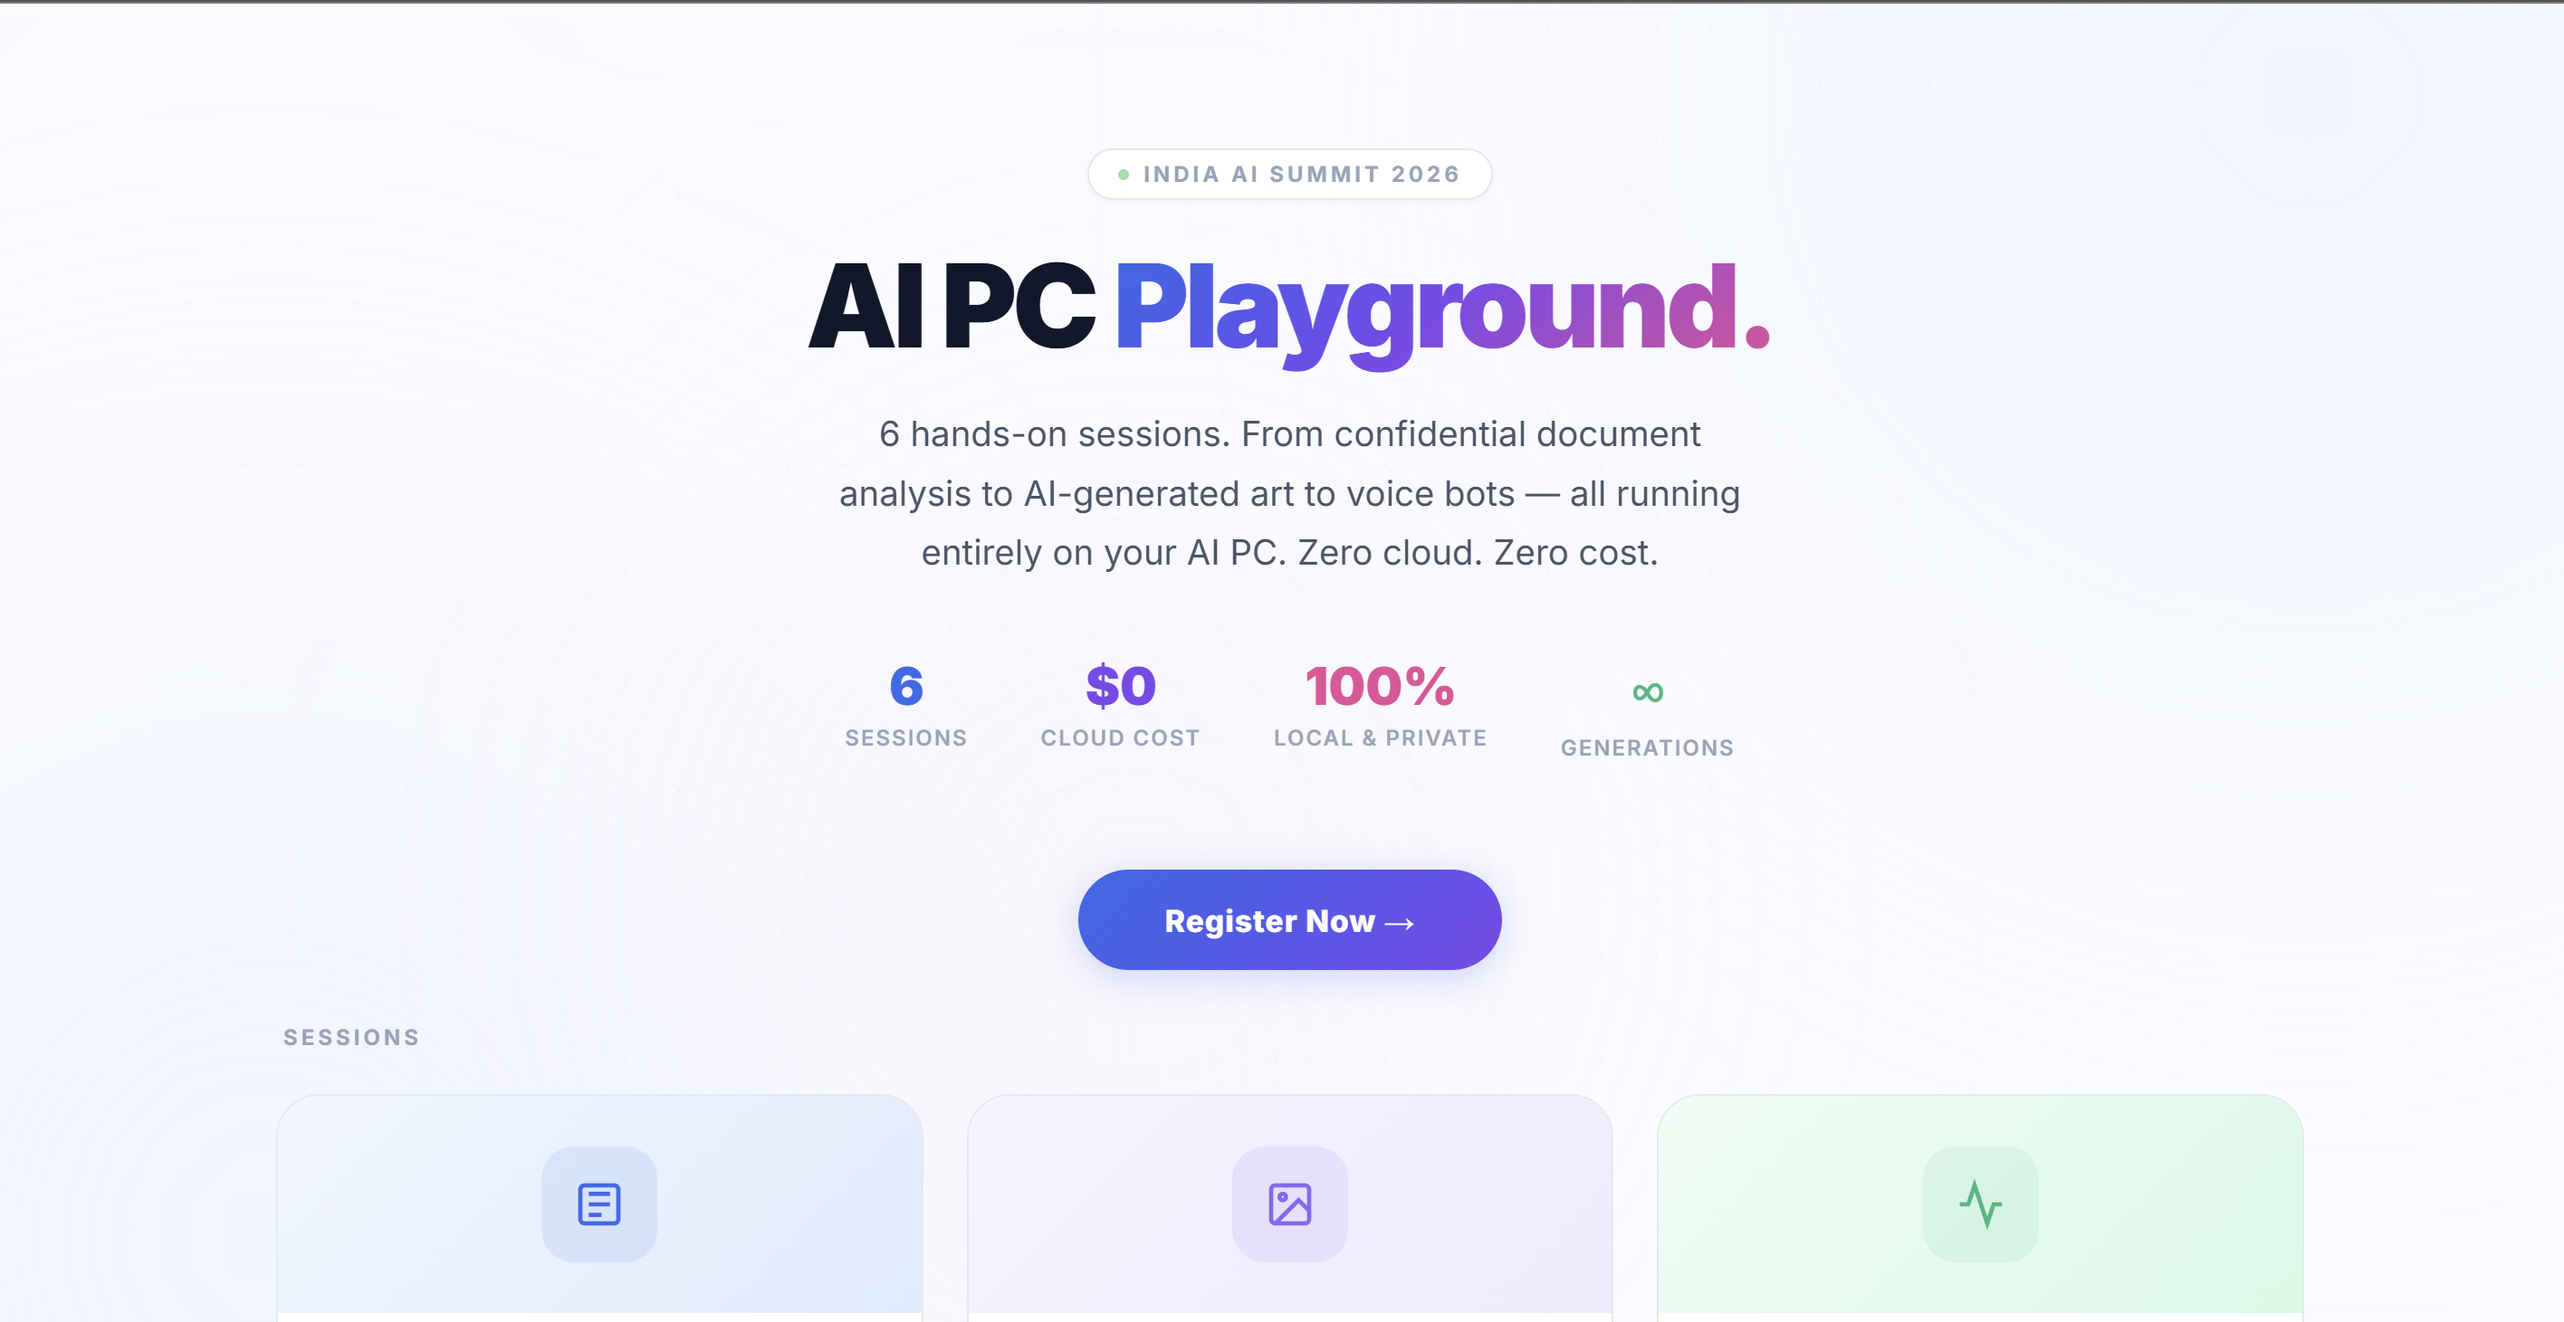
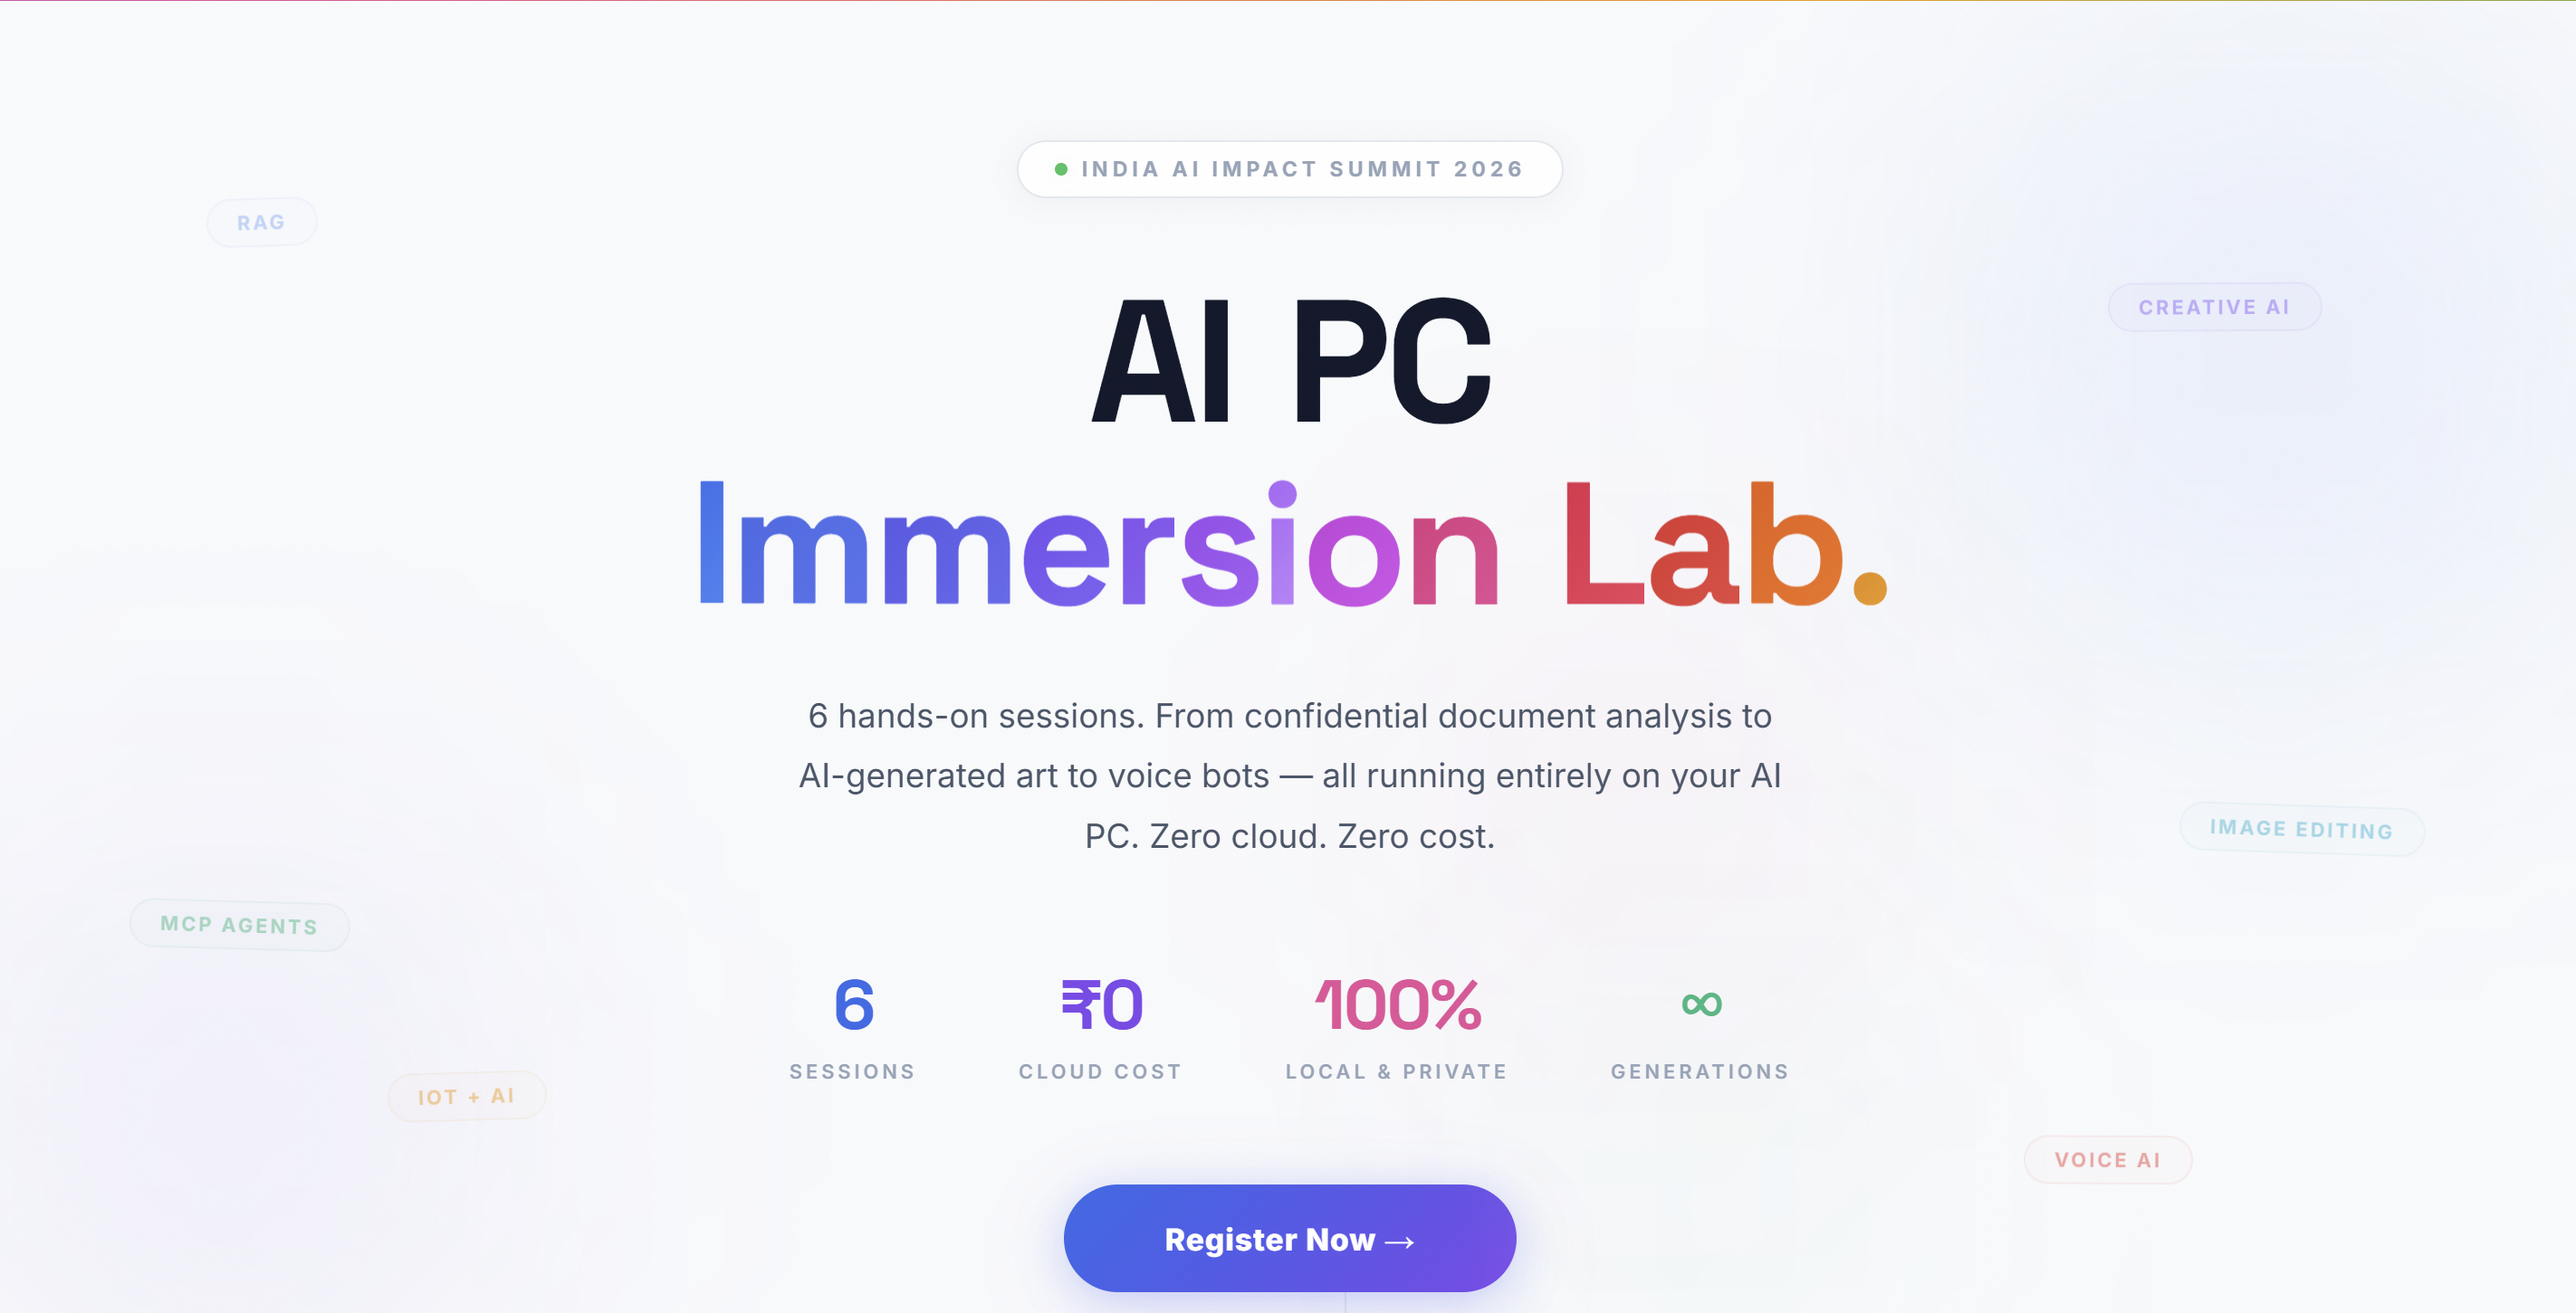
updated the preview images

diff --git a/register.html b/register.html
@@ -5,6 +5,18 @@
     <meta charset="UTF-8">
     <meta name="viewport" content="width=device-width, initial-scale=1.0">
     <title>Register | AI PC Immersion Lab — India AI Impact Summit 2026</title>
+    <!-- Open Graph / Facebook -->
+    <meta property="og:type" content="website">
+    <meta property="og:title" content="Register | AI PC Immersion Lab — India AI Impact Summit 2026">
+    <meta property="og:description"
+        content="Register for the 6-session hands-on AI PC Immersion Lab at the India AI Impact Summit 2026.">
+    <meta property="og:image" content="assets/preview.png">
+    <!-- Twitter -->
+    <meta property="twitter:card" content="summary_large_image">
+    <meta property="twitter:title" content="Register | AI PC Immersion Lab — India AI Impact Summit 2026">
+    <meta property="twitter:description"
+        content="Register for the 6-session hands-on AI PC Immersion Lab at the India AI Impact Summit 2026.">
+    <meta property="twitter:image" content="assets/preview.png">
     <meta name="description"
         content="Register for the 6-session hands-on AI PC Immersion Lab at the India AI Impact Summit 2026.">
     <link href="https://fonts.googleapis.com/css2?family=Inter:wght@300;400;500;600;700;800;900&display=swap"

diff --git a/setup_guide.html b/setup_guide.html
@@ -7,6 +7,16 @@
     <link href="https://fonts.googleapis.com/css2?family=Inter:wght@400;500;600;700&display=swap" rel="stylesheet">
     <link href="https://fonts.googleapis.com/css2?family=JetBrains+Mono:wght@400;500&display=swap" rel="stylesheet">
     <title>Ultimate Workshop Setup Guide</title>
+    <!-- Open Graph / Facebook -->
+    <meta property="og:type" content="website">
+    <meta property="og:title" content="Ultimate Workshop Setup Guide">
+    <meta property="og:description" content="Complete setup guide for the AI PC Immersion Lab workshop.">
+    <meta property="og:image" content="assets/preview.png">
+    <!-- Twitter -->
+    <meta property="twitter:card" content="summary_large_image">
+    <meta property="twitter:title" content="Ultimate Workshop Setup Guide">
+    <meta property="twitter:description" content="Complete setup guide for the AI PC Immersion Lab workshop.">
+    <meta property="twitter:image" content="assets/preview.png">
     <style>
         @page {
             size: A4;

diff --git a/Session_5_Presentation.html b/Session_5_Presentation.html
@@ -5,6 +5,16 @@
     <meta charset="UTF-8">
     <meta name="viewport" content="width=device-width, initial-scale=1.0">
     <title>Session 5 | AI News Anchor — Voice Agent</title>
+    <!-- Open Graph / Facebook -->
+    <meta property="og:type" content="website">
+    <meta property="og:title" content="Session 5 | AI News Anchor — Voice Agent">
+    <meta property="og:description" content="AI PC Immersion Lab Session 5">
+    <meta property="og:image" content="assets/preview.png">
+    <!-- Twitter -->
+    <meta property="twitter:card" content="summary_large_image">
+    <meta property="twitter:title" content="Session 5 | AI News Anchor — Voice Agent">
+    <meta property="twitter:description" content="AI PC Immersion Lab Session 5">
+    <meta property="twitter:image" content="assets/preview.png">
     <link href="https://fonts.googleapis.com/css2?family=Inter:wght@300;400;500;600;700;800;900&display=swap"
         rel="stylesheet">
     <style>

diff --git a/Session_4_Presentation.html b/Session_4_Presentation.html
@@ -5,6 +5,16 @@
     <meta charset="UTF-8">
     <meta name="viewport" content="width=device-width, initial-scale=1.0">
     <title>Session 4 | Photoshop-Free AI Editing</title>
+    <!-- Open Graph / Facebook -->
+    <meta property="og:type" content="website">
+    <meta property="og:title" content="Session 4 | Photoshop-Free AI Editing">
+    <meta property="og:description" content="AI PC Immersion Lab Session 4">
+    <meta property="og:image" content="assets/preview.png">
+    <!-- Twitter -->
+    <meta property="twitter:card" content="summary_large_image">
+    <meta property="twitter:title" content="Session 4 | Photoshop-Free AI Editing">
+    <meta property="twitter:description" content="AI PC Immersion Lab Session 4">
+    <meta property="twitter:image" content="assets/preview.png">
     <link href="https://fonts.googleapis.com/css2?family=Inter:wght@300;400;500;600;700;800;900&display=swap"
         rel="stylesheet">
     <style>

diff --git a/roster.html b/roster.html
@@ -6,6 +6,16 @@
     <meta name="viewport" content="width=device-width, initial-scale=1.0">
     <link href="https://fonts.googleapis.com/css2?family=Inter:wght@400;500;600;700&display=swap" rel="stylesheet">
     <title>Workshop Day Outline</title>
+    <!-- Open Graph / Facebook -->
+    <meta property="og:type" content="website">
+    <meta property="og:title" content="Workshop Day Outline">
+    <meta property="og:description" content="Schedule and outline for the AI PC Immersion Lab workshop.">
+    <meta property="og:image" content="assets/preview.png">
+    <!-- Twitter -->
+    <meta property="twitter:card" content="summary_large_image">
+    <meta property="twitter:title" content="Workshop Day Outline">
+    <meta property="twitter:description" content="Schedule and outline for the AI PC Immersion Lab workshop.">
+    <meta property="twitter:image" content="assets/preview.png">
     <style>
         @page {
             size: A4;

diff --git a/Session_6_Presentation.html b/Session_6_Presentation.html
@@ -5,6 +5,16 @@
     <meta charset="UTF-8">
     <meta name="viewport" content="width=device-width, initial-scale=1.0">
     <title>Session 6 | AI + IoT — AirOwl</title>
+    <!-- Open Graph / Facebook -->
+    <meta property="og:type" content="website">
+    <meta property="og:title" content="Session 6 | AI + IoT — AirOwl">
+    <meta property="og:description" content="AI PC Immersion Lab Session 6">
+    <meta property="og:image" content="assets/preview.png">
+    <!-- Twitter -->
+    <meta property="twitter:card" content="summary_large_image">
+    <meta property="twitter:title" content="Session 6 | AI + IoT — AirOwl">
+    <meta property="twitter:description" content="AI PC Immersion Lab Session 6">
+    <meta property="twitter:image" content="assets/preview.png">
     <link href="https://fonts.googleapis.com/css2?family=Inter:wght@300;400;500;600;700;800;900&display=swap"
         rel="stylesheet">
     <style>

diff --git a/Session_1_Presentation.html b/Session_1_Presentation.html
@@ -5,6 +5,16 @@
     <meta charset="UTF-8">
     <meta name="viewport" content="width=device-width, initial-scale=1.0">
     <title>Session 1 | Local Intelligence</title>
+    <!-- Open Graph / Facebook -->
+    <meta property="og:type" content="website">
+    <meta property="og:title" content="Session 1 | Local Intelligence">
+    <meta property="og:description" content="AI PC Immersion Lab Session 1">
+    <meta property="og:image" content="assets/preview.png">
+    <!-- Twitter -->
+    <meta property="twitter:card" content="summary_large_image">
+    <meta property="twitter:title" content="Session 1 | Local Intelligence">
+    <meta property="twitter:description" content="AI PC Immersion Lab Session 1">
+    <meta property="twitter:image" content="assets/preview.png">
     <link href="https://fonts.googleapis.com/css2?family=Inter:wght@300;400;500;600;700;800;900&display=swap"
         rel="stylesheet">
     <style>

diff --git a/Session_2_Presentation.html b/Session_2_Presentation.html
@@ -5,6 +5,16 @@
     <meta charset="UTF-8">
     <meta name="viewport" content="width=device-width, initial-scale=1.0">
     <title>Session 2 | AI Creative Studio</title>
+    <!-- Open Graph / Facebook -->
+    <meta property="og:type" content="website">
+    <meta property="og:title" content="Session 2 | AI Creative Studio">
+    <meta property="og:description" content="AI PC Immersion Lab Session 2">
+    <meta property="og:image" content="assets/preview.png">
+    <!-- Twitter -->
+    <meta property="twitter:card" content="summary_large_image">
+    <meta property="twitter:title" content="Session 2 | AI Creative Studio">
+    <meta property="twitter:description" content="AI PC Immersion Lab Session 2">
+    <meta property="twitter:image" content="assets/preview.png">
     <link href="https://fonts.googleapis.com/css2?family=Inter:wght@300;400;500;600;700;800;900&display=swap"
         rel="stylesheet">
     <style>

diff --git a/Session_3_Presentation.html b/Session_3_Presentation.html
@@ -5,6 +5,16 @@
     <meta charset="UTF-8">
     <meta name="viewport" content="width=device-width, initial-scale=1.0">
     <title>Session 3 | MCP Finance Agent</title>
+    <!-- Open Graph / Facebook -->
+    <meta property="og:type" content="website">
+    <meta property="og:title" content="Session 3 | MCP Finance Agent">
+    <meta property="og:description" content="AI PC Immersion Lab Session 3">
+    <meta property="og:image" content="assets/preview.png">
+    <!-- Twitter -->
+    <meta property="twitter:card" content="summary_large_image">
+    <meta property="twitter:title" content="Session 3 | MCP Finance Agent">
+    <meta property="twitter:description" content="AI PC Immersion Lab Session 3">
+    <meta property="twitter:image" content="assets/preview.png">
     <link href="https://fonts.googleapis.com/css2?family=Inter:wght@300;400;500;600;700;800;900&display=swap"
         rel="stylesheet">
     <style>
